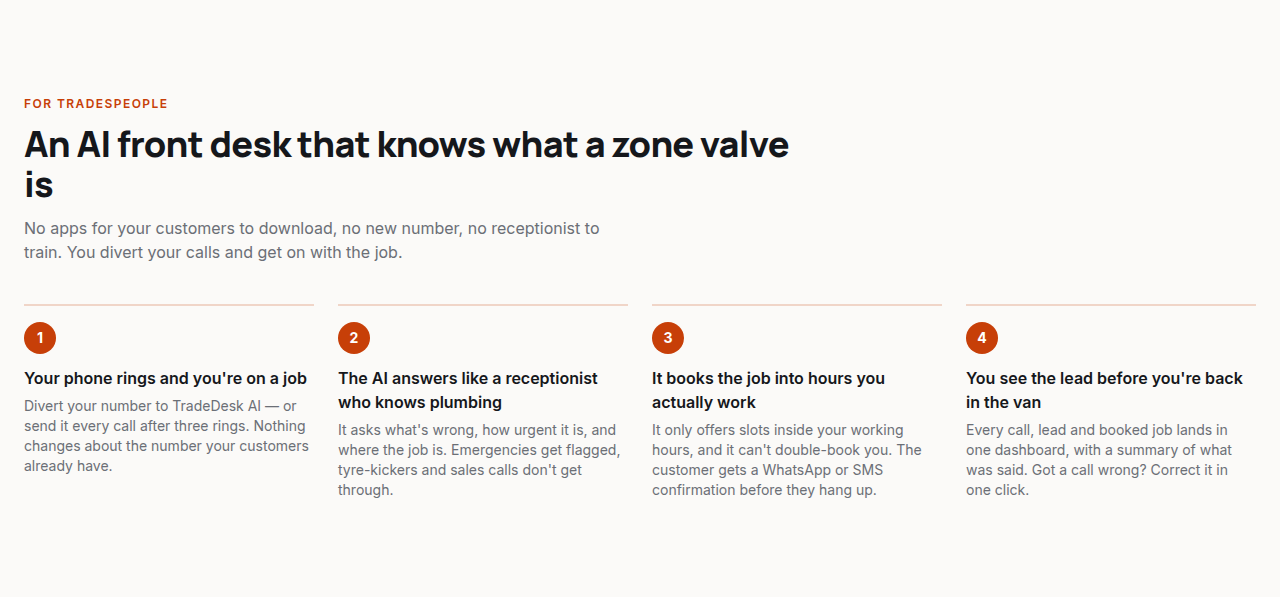
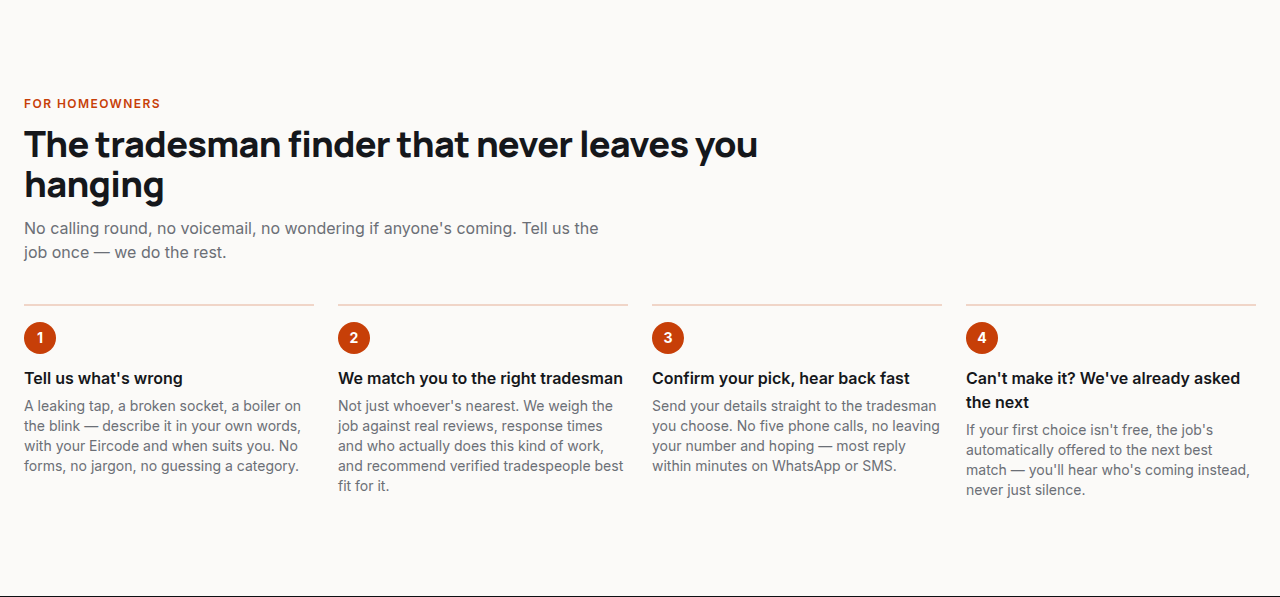
Rewrite the homepage's How it works section for homeowners
This section was tradesperson-only copy ("An AI front desk that knows
what a zone valve is") linked from the footer's "I am a tradesman"
column. Replaces it with a homeowner-facing explainer instead, since
there was no equivalent "why use us" pitch for homeowners anywhere on
the homepage: describe the job once, get matched to a verified
tradesman (not just whoever's nearest), confirm and hear back fast,
and — if that tradesman can't take it — the job is automatically
offered to the next best match instead of leaving the homeowner stuck.

Every step names a real, shipped part of the "find a tradesman" chat
and its match-request/fallback flow, not aspirational copy. Removes
the footer's now-stale "How it works" link for tradespeople, since the
section it pointed to no longer explains anything to them.

Claude-Session: https://claude.ai/code/session_01D2AdKVX9wc36S7nrZDT2Cg

diff --git a/lib/marketing.ts b/lib/marketing.ts
@@ -143,22 +143,29 @@ export const comparisonRows: ComparisonRow[] = [
   },
 ];
 
+/**
+ * The homepage's "how it works" explainer — written for the homeowner
+ * finding a tradesman, not the tradesman being found. Every step describes
+ * a real, shipped part of the "find a tradesman" chat and its match-request
+ * flow (see `components/marketplace/find-tradesman-chat.tsx` and
+ * `lib/api/match-requests.ts`), not aspirational copy.
+ */
 export const howItWorksSteps = [
   {
-    title: "Your phone rings and you're on a job",
-    body: "Divert your number to TradeDesk AI — or send it every call after three rings. Nothing changes about the number your customers already have.",
+    title: "Tell us what's wrong",
+    body: "A leaking tap, a broken socket, a boiler on the blink — describe it in your own words, with your Eircode and when suits you. No forms, no jargon, no guessing a category.",
   },
   {
-    title: "The AI answers like a receptionist who knows plumbing",
-    body: "It asks what's wrong, how urgent it is, and where the job is. Emergencies get flagged, tyre-kickers and sales calls don't get through.",
+    title: "We match you to the right tradesman",
+    body: "Not just whoever's nearest. We weigh the job against real reviews, response times and who actually does this kind of work, and recommend verified tradespeople best fit for it.",
   },
   {
-    title: "It books the job into hours you actually work",
-    body: "It only offers slots inside your working hours, and it can't double-book you. The customer gets a WhatsApp or SMS confirmation before they hang up.",
+    title: "Confirm your pick, hear back fast",
+    body: "Send your details straight to the tradesman you choose. No five phone calls, no leaving your number and hoping — most reply within minutes on WhatsApp or SMS.",
   },
   {
-    title: "You see the lead before you're back in the van",
-    body: "Every call, lead and booked job lands in one dashboard, with a summary of what was said. Got a call wrong? Correct it in one click.",
+    title: "Can't make it? We've already asked the next",
+    body: "If your first choice isn't free, the job's automatically offered to the next best match — you'll hear who's coming instead, never just silence.",
   },
 ];
 

diff --git a/components/marketing/how-it-works.tsx b/components/marketing/how-it-works.tsx
@@ -6,13 +6,13 @@ export function HowItWorks() {
       id="how-it-works"
       className="mx-auto w-full max-w-7xl px-4 py-16 sm:px-6 md:py-24"
     >
-      <p className="kicker">For tradespeople</p>
+      <p className="kicker">For homeowners</p>
       <h2 className="display mt-3 max-w-3xl text-3xl sm:text-4xl">
-        An AI front desk that knows what a zone valve is
+        The tradesman finder that never leaves you hanging
       </h2>
       <p className="text-muted-foreground mt-3 max-w-xl">
-        No apps for your customers to download, no new number, no receptionist
-        to train. You divert your calls and get on with the job.
+        No calling round, no voicemail, no wondering if anyone&apos;s coming.
+        Tell us the job once — we do the rest.
       </p>
 
       <ol className="mt-10 grid gap-6 md:grid-cols-2 lg:grid-cols-4">

diff --git a/components/site/site-footer.tsx b/components/site/site-footer.tsx
@@ -10,9 +10,8 @@ const homeownerLinks = [
 ];
 
 const tradeLinks = [
-  { href: "/#how-it-works", label: "How it works" },
-  { href: "/#pricing", label: "Pricing" },
   { href: "/#compare", label: "Cost of a missed call" },
+  { href: "/#pricing", label: "Pricing" },
   { href: "/signup", label: "Create an account" },
 ];
 

diff --git a/docs/VISUAL_TOUR.md b/docs/VISUAL_TOUR.md
@@ -58,6 +58,8 @@ Real, attributed reviews pulled via [`getFeaturedReviews()`](../lib/api/marketpl
 
 **File:** [`components/marketing/how-it-works.tsx`](../components/marketing/how-it-works.tsx)
 
+Four steps written for the homeowner, not the tradesman: describe the job, get matched to a verified tradesperson (not just whoever's nearest), confirm and hear back fast, and — if that tradesman can't take it — the job's automatically offered to the next best match instead of leaving the homeowner stuck. Every step names a real, shipped part of the "find a tradesman" chat and its match-request/fallback flow (see the Marketplace section below and `docs/api-contract.md`'s "Match requests" section), not aspirational copy. The footer's "I am a tradesman" column no longer links here, since this section stopped being about them; it previously did (`/#how-it-works`).
+
 ### Cost comparison
 
 ![Cost comparison](screenshots/cost-comparison.png)
